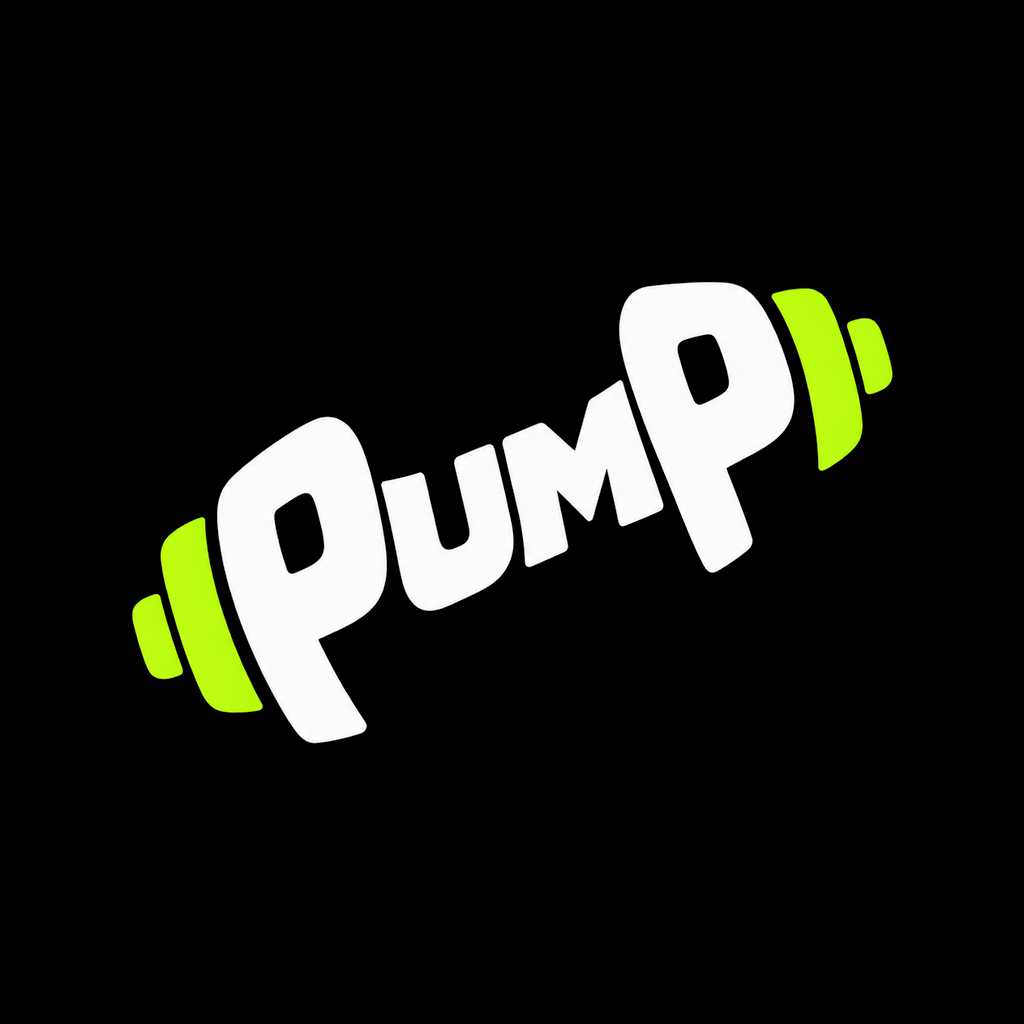
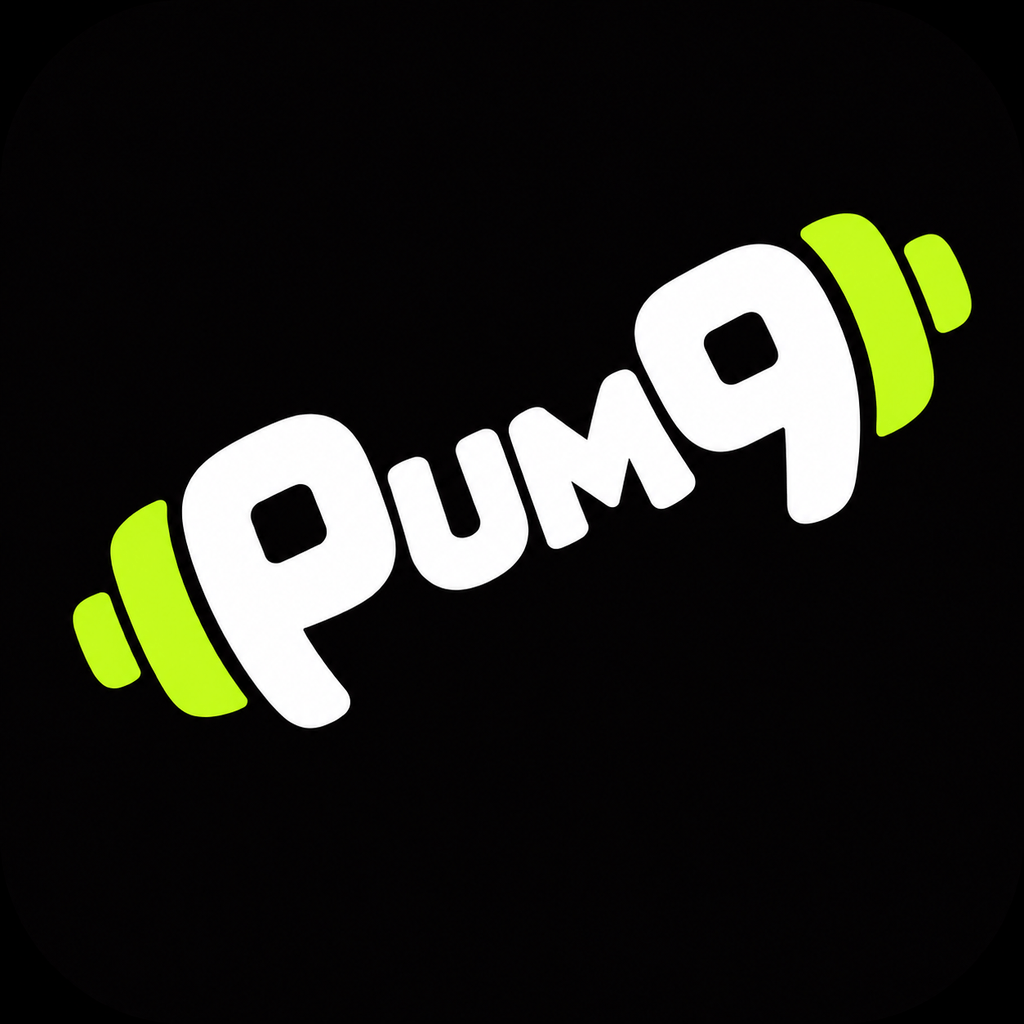
feat: atualiza o ícone do Pump e o tour do README

diff --git a/pwa-assets.config.ts b/pwa-assets.config.ts
@@ -1,13 +1,13 @@
 import { defineConfig, minimal2023Preset as base } from '@vite-pwa/assets-generator/config'
 
-// public/icon.png já vem com a folga em volta do logo: sem padding extra no apple/pwa; o maskable ganha um pouco pro recorte em círculo do Android
+// public/icon.png já vem com a folga em volta do logo: sem padding extra no apple/pwa; o maskable acomoda o logo diagonal na área segura do Android
 const bg = { background: '#000000' }
 
 export default defineConfig({
   preset: {
     ...base,
     transparent: { ...base.transparent, padding: 0 },
-    maskable: { ...base.maskable, padding: 0.1, resizeOptions: bg },
+    maskable: { ...base.maskable, padding: 0.2, resizeOptions: bg },
     apple: { ...base.apple, padding: 0, resizeOptions: bg },
   },
   images: ['public/icon.png'],

diff --git a/src/shell/releases.ts b/src/shell/releases.ts
@@ -11,6 +11,7 @@ export const CHANGELOG: [Release, ...Release[]] = [
       'Os grupos musculares ganharam as cores das anilhas: peito vermelho, costas azul, pernas amarelo, ombros verde e braços branco.',
       'Modo claro: em Configurações > Aparência, escolha Escuro, Claro ou seguir o aparelho.',
       'Botão "Atualizar app" em Configurações busca a versão nova e recarrega na hora.',
+      'Novo ícone do Pump na tela inicial do aparelho.',
     ],
     correcoes: [],
   },

diff --git a/README.md b/README.md
@@ -1,148 +1,83 @@
 <div align="center">
-  <img src="public/pwa-192x192.png" width="76" height="76" alt="Ícone do Pump">
+  <img src="public/pwa-192x192.png" width="82" height="82" alt="Ícone do Pump">
   <h1>Pump</h1>
-  <p><strong>Treino, dieta e evolução no mesmo app.</strong></p>
-  <p>Registre séries, organize refeições e acompanhe seus resultados no seu ritmo.</p>
-  <p><a href="https://yagoramires.github.io/pump/"><strong>Abrir o Pump</strong></a> · <a href="#como-usar">Como usar</a> · <a href="#rodar-localmente">Rodar localmente</a></p>
-  <img src="assets/readme/pump-demo.gif" width="680" alt="Demonstração do Pump. Uma série é registrada, o descanso começa, a dieta e a lista de compras são abertas e o gráfico de evolução aparece.">
+  <p>Da primeira série à próxima ficha. Registre o treino, organize as refeições e veja sua evolução ao longo das semanas.</p>
+  <p><a href="https://yagoramires.github.io/pump/"><strong>Abrir o Pump</strong></a> · <a href="#primeiros-passos">Primeiros passos</a> · <a href="#rodar-localmente">Rodar localmente</a></p>
+  <img src="assets/readme/pump-demo.gif" width="840" alt="Tour pelo Pump nos temas escuro e claro. A ficha de hoje, o descanso e o resumo do treino dão lugar ao histórico de cargas, à comparação de fotos, à refeição, à lista de compras e à escolha de aparência.">
 </div>
 
-> As capturas usam fichas, refeições, medições e imagens de progresso fictícias.
+O Pump é um app instalável que guarda os registros no próprio aparelho. As telas abaixo usam uma ficha de exemplo e imagens de progresso fictícias.
 
-## Como usar
+## Primeiros passos
 
-1. **Abra o app.** No iPhone, abra pelo Safari e use **Compartilhar → Adicionar à Tela de Início**.
-2. **Configure seu perfil.** Preencha seus dados e objetivos. No **Dia zero**, registre seu peso e, se quiser, medidas e fotos para ter uma referência inicial.
-3. **Monte a rotina.** Escolha um treino pronto, monte do zero ou importe uma ficha. Para a dieta, crie um cardápio ou importe um que você já usa. Dá para pular a configuração de treino ou dieta e voltar depois.
-4. **Registre o dia.** Use as abas **Treino** e **Dieta** para acompanhar o que fez. Abra **Evolução** para consultar o histórico e comparar os registros.
+No iPhone, abra o Pump no Safari e toque em **Compartilhar → Adicionar à Tela de Início**. Na primeira abertura, preencha o perfil e escolha seus objetivos. Em **Dia zero**, registre o peso e, se quiser, medidas e fotos para comparar depois.
+
+Escolha uma ficha pronta, monte a sua ou importe um plano. A montagem do treino e a da dieta podem ser puladas e retomadas em Configurações.
 
 <details>
-<summary>Ver as cinco etapas da montagem inicial</summary>
+<summary>Ver objetivos, Dia zero e escolha de treino</summary>
 
-| Sobre você | Objetivos | Dia zero |
+| Objetivos | Dia zero | Seu treino |
 | :---: | :---: | :---: |
-| <img src="assets/readme/montagem-perfil.png" width="216" alt="Formulário inicial com idade, altura e horários"> | <img src="assets/readme/montagem-objetivos.png" width="216" alt="Seleção de objetivos de treino e dieta"> | <img src="assets/readme/montagem-dia-zero.png" width="216" alt="Registro inicial de peso, medidas e fotos"> |
-
-| Seu treino | Sua dieta |
-| :---: | :---: |
-| <img src="assets/readme/montagem-treino.png" width="216" alt="Escolha de modelo de treino, montagem do zero e importação"> | <img src="assets/readme/montagem-dieta.png" width="216" alt="Opções para configurar o primeiro cardápio"> |
+| <img src="assets/readme/entrada-objetivos-claro.jpg" width="216" alt="Escolha do objetivo e da frequência de treino"> | <img src="assets/readme/entrada-dia-zero-escuro.jpg" width="216" alt="Campos de medidas e fotos iniciais"> | <img src="assets/readme/entrada-treino-claro.jpg" width="216" alt="Modelos de treino e opções para montar ou importar a ficha"> |
 
 </details>
 
 ## Treino
 
-Abra a ficha do dia, ajuste a carga e as repetições da série e marque quando terminar. Se a ficha traz uma sequência como **12-10-8** em três séries, o app preenche cada linha com o valor correspondente. Quando a série tem descanso programado, o cronômetro abre automaticamente. Você pode pausar, acrescentar 15 segundos ou pular o intervalo.
+Abra a ficha do dia para ver os exercícios e os músculos que vão trabalhar. Durante o treino, cada linha corresponde a uma série. Ajuste a carga e as repetições, marque a série e acompanhe o descanso. Ao concluir, registre como foi o esforço e veja o resumo da sessão.
 
-| Ficha e séries | Contador de descanso | Prévia do exercício |
+| Antes de começar | Entre as séries | Treino concluído |
 | :---: | :---: | :---: |
-| <img src="assets/readme/treino.png" width="220" alt="Ficha de treino com cargas e repetições por série"> | <img src="assets/readme/treino-descanso.png" width="220" alt="Cronômetro de descanso ativo após registrar uma série"> | <img src="assets/readme/treino-previa.png" width="220" alt="Foto e instruções de um exercício do catálogo"> |
+| <img src="assets/readme/treino-hoje-escuro.jpg" width="220" alt="Ficha de hoje com mapa muscular e lista de exercícios"> | <img src="assets/readme/treino-sessao-escuro.jpg" width="220" alt="Duas séries de supino marcadas e cronômetro de descanso ativo"> | <img src="assets/readme/treino-resumo-claro.jpg" width="220" alt="Resumo da sessão com duração, volume e músculos trabalhados"> |
 
-- **Montar e editar.** Abra **Configurações → Editar plano**. Adicione exercícios do catálogo ou crie os seus. Toque na miniatura para ver imagens e instruções. O nome e a seta abrem a edição de séries, repetições, carga e descanso.
-- **Escolher a sessão.** O Pump sugere a próxima ficha conforme a ordem do plano e o último treino concluído. Use **Trocar treino** para escolher outra ou **Marcar descanso** quando for dia de pausa.
-- **Consultar cargas anteriores.** A tabela da sessão mostra os valores da última vez que o exercício foi registrado. **Treinos anteriores** abre as sessões concluídas e seus detalhes.
-
-<details>
-<summary>Ver edição, catálogo, troca de ficha e treinos anteriores</summary>
-
-| Plano | Ajustes do exercício | Catálogo |
-| :---: | :---: | :---: |
-| <img src="assets/readme/treino-editor.png" width="216" alt="Editor de plano com miniaturas dos exercícios"> | <img src="assets/readme/treino-editar-exercicio.png" width="216" alt="Edição de um exercício com campos de séries, carga e descanso"> | <img src="assets/readme/treino-catalogo.png" width="216" alt="Busca no catálogo de exercícios com filtros de músculo e equipamento"> |
-
-| Trocar treino | Treinos anteriores |
-| :---: | :---: |
-| <img src="assets/readme/treino-trocar.png" width="216" alt="Gaveta para escolher outro treino do plano"> | <img src="assets/readme/treino-anteriores.png" width="216" alt="Lista de sessões anteriores com as séries de um treino expandidas"> |
-
-</details>
-
-## Dieta
-
-O cardápio organiza as refeições do dia por horário. Abra uma refeição para escolher uma opção, ajustar porções, trocar alimentos ou adicionar extras. Marque **Comi esta** para registrar e veja calorias e macros na aba principal. Use o contador de água para registrar copos ao longo do dia.
-
-| Resumo diário | Refeição e opções | Água |
-| :---: | :---: | :---: |
-| <img src="assets/readme/dieta.png" width="220" alt="Resumo da dieta com calorias, macros, água e lista de refeições"> | <img src="assets/readme/dieta-refeicao.png" width="220" alt="Detalhes de uma refeição com opções, porções e alimentos"> | <img src="assets/readme/dieta-agua.png" width="220" alt="Contador de água com total do dia e controles de copos"> |
-
-- **Planejar.** Em **Configurações → Cardápio**, edite metas, refeições e alternativas. A busca de alimentos usa a tabela TACO e permite cadastrar itens próprios.
-- **Adaptar o dia.** Em **Mais opções da dieta**, mude o cardápio do dia, marque **Dia livre** ou abra a lista de compras. Uma única refeição também pode ser marcada como livre.
-- **Comprar.** A lista estima quantidades para uma semana ou um mês com base nos cardápios. Marque o que já comprou e copie o que falta.
-- **Personalizar a água.** Em **Configurações → Água**, ajuste a meta diária, o tamanho do copo e a exibição do contador.
-
-<details>
-<summary>Ver cardápios, busca de alimentos e lista de compras</summary>
-
-| Editor de cardápio | Busca de alimentos | Compras |
-| :---: | :---: | :---: |
-| <img src="assets/readme/dieta-cardapio.png" width="216" alt="Editor do cardápio com metas de calorias e macronutrientes"> | <img src="assets/readme/dieta-alimentos.png" width="216" alt="Busca de alimentos na tabela TACO"> | <img src="assets/readme/dieta-compras.png" width="216" alt="Lista de compras com quantidades e itens marcados"> |
-
-| Escolher o cardápio de hoje | Configurar água |
-| :---: | :---: |
-| <img src="assets/readme/dieta-trocar-cardapio.png" width="216" alt="Seleção de cardápio do dia"> | <img src="assets/readme/dieta-configurar-agua.png" width="216" alt="Configurações de meta diária e volume do copo"> |
-
-</details>
+- **Ajustar a ficha.** Em **Configurações → Editar plano**, toque na miniatura para ver a execução ou no nome do exercício para editar séries, repetições, carga e descanso. Uma prescrição como **12-10-8** preenche as três séries em ordem.
+- **Mudar o dia.** Use **Trocar treino** para escolher outra ficha ou marque um dia de descanso. **Treinos anteriores** reúne as sessões concluídas.
+- **Controlar o intervalo.** Quando há descanso programado, marcar uma série inicia o cronômetro. Dá para pausar, acrescentar 15 segundos ou pular o intervalo.
 
 ## Evolução
 
-Veja peso, medidas, estimativa de gordura corporal e frequência de treinos. O gráfico de peso pode mostrar 7, 30 ou 90 dias, ou todo o histórico. A aba também reúne a consistência da dieta, a hidratação e as conquistas.
+Abra um exercício para ver como a carga variou de uma sessão para outra. Para acompanhar mudanças no corpo, registre medidas e fotos ao longo das semanas e escolha duas datas para comparar lado a lado.
 
-| Painel e gráfico | Comparar fotos | Histórico |
+| Carga por exercício | Comparação por data | Conquistas |
 | :---: | :---: | :---: |
-| <img src="assets/readme/evolucao.png" width="220" alt="Painel de evolução com gráfico de peso, gordura estimada e treinos"> | <img src="assets/readme/evolucao-comparar.png" width="220" alt="Comparação de duas imagens fictícias e das medidas entre datas"> | <img src="assets/readme/evolucao-historico.png" width="220" alt="Calendário de registros com detalhes do dia selecionado"> |
+| <img src="assets/readme/evolucao-exercicio-claro.jpg" width="220" alt="Gráfico de carga do supino com os registros por sessão"> | <img src="assets/readme/evolucao-comparar-escuro.jpg" width="220" alt="Duas fotos fictícias e a diferença de peso e cintura entre as datas"> | <img src="assets/readme/evolucao-conquistas-escuro.jpg" width="220" alt="Grade de conquistas com os marcos já alcançados"> |
 
-- **Registrar.** Toque em **Registrar** para anotar peso e medidas ou adicionar imagens da câmera ou da galeria. As imagens podem ser separadas por frente, lado e costas.
-- **Fazer o check-in.** No dia configurado, use **Atualizar** para registrar a semana e ver as mudanças desde os registros anteriores.
-- **Comparar e consultar.** Escolha duas datas em **Comparar**, veja os dias com registros em **Histórico** e abra **Conquistas** para consultar os marcos.
-- **Compartilhar.** Use **Gerar PDF** e depois **Compartilhar PDF** para exportar um resumo do período. A primeira geração pode precisar de internet para carregar o gerador.
+- **Registrar a semana.** Em **Registrar**, anote peso e medidas ou adicione fotos de frente, lado e costas. No dia do check-in, **Atualizar** reúne os registros da semana.
+- **Consultar o histórico.** O calendário mostra os registros de cada dia. O painel reúne constância, evolução das cargas e recordes.
+- **Compartilhar.** Gere o PDF de evolução para enviar um resumo do período. O primeiro carregamento do gerador pode precisar de internet.
 
-<details>
-<summary>Ver registro, captura de fotos, check-in, conquistas e relatório</summary>
+## Dieta
 
-| Registrar medidas | Capturar fotos | Check-in semanal |
+O cardápio organiza as refeições por horário. Abra uma delas para escolher a opção, ajustar porções ou incluir um extra. **Comi esta** registra a refeição e atualiza o total do dia. A mesma aba reúne água e suplementos.
+
+| Cardápio de hoje | Refeição | Lista de compras |
 | :---: | :---: | :---: |
-| <img src="assets/readme/evolucao-registro.png" width="216" alt="Formulário para registrar peso e medidas"> | <img src="assets/readme/evolucao-fotos.png" width="216" alt="Tela de captura de fotos com seleção de ângulo"> | <img src="assets/readme/evolucao-checkin.png" width="216" alt="Formulário de atualização semanal"> |
+| <img src="assets/readme/dieta-hoje-claro.jpg" width="220" alt="Resumo diário com refeições, água e suplementos"> | <img src="assets/readme/dieta-refeicao-escuro.jpg" width="220" alt="Alimentos do almoço, porções e ação Comi esta"> | <img src="assets/readme/dieta-compras-claro.jpg" width="220" alt="Quantidades para as compras com seleção de semana ou mês"> |
 
-| Resumo da semana | Conquistas | PDF |
+- **Planejar.** Em **Configurações → Cardápio**, edite metas, refeições e alternativas. A busca usa a tabela TACO e aceita alimentos cadastrados por você.
+- **Adaptar.** Em **Mais opções da dieta**, troque o cardápio do dia, marque um dia livre ou abra a lista de compras. Dá para marcar itens comprados e copiar os que faltam.
+- **Personalizar.** Em Configurações, ajuste a meta de água, o volume do copo e os suplementos que quer acompanhar.
+
+## Configurações, aparência e backup
+
+Em **Configurações → App**, escolha **Escuro**, **Claro** ou **Sistema** para seguir a aparência do aparelho. **Novidades** mostra o que mudou na versão. **Atualizar app** busca a versão disponível e recarrega o Pump.
+
+| Editar plano | Perfil | Aparência e atualização |
 | :---: | :---: | :---: |
-| <img src="assets/readme/evolucao-semana.png" width="216" alt="Resumo do check-in depois de salvar as medidas"> | <img src="assets/readme/evolucao-conquistas.png" width="216" alt="Lista de conquistas ganhas e bloqueadas"> | <img src="assets/readme/evolucao-relatorio.png" width="216" alt="Ação para compartilhar o PDF de evolução gerado"> |
+| <img src="assets/readme/ajustes-plano-escuro.jpg" width="220" alt="Editor das fichas com miniaturas dos exercícios"> | <img src="assets/readme/ajustes-perfil-claro.jpg" width="220" alt="Dados do perfil, horários e objetivos"> | <img src="assets/readme/ajustes-aparencia-claro.jpg" width="220" alt="Seletor de aparência e ações Novidades e Atualizar app"> |
 
-</details>
+Os registros ficam em IndexedDB, no navegador ou no app instalado. Antes de trocar de aparelho ou limpar os dados do site, use **Enviar backup** e guarde o JSON. No destino, **Restaurar backup** recupera o histórico e as fotos e substitui os dados que já estavam ali. Para rever o passo a passo inicial no mesmo aparelho, use **Refazer montagem**.
 
 ## Importar treino ou dieta
 
-No grupo **Treino** ou **Dieta** das configurações, escolha **Gerar com IA** para montar um plano a partir dos seus objetivos. Se você já tem uma ficha em texto, imagem ou PDF, use **Converter** e envie a ficha junto com o prompt na sua ferramenta de IA. Para mudar o plano que você já tem, use **Ajustar com IA**: ele copia seu plano com as regras do formato, você cola na IA, diz o que quer mudar e cola a resposta em **Gerar com IA**.
-
-1. Copie o prompt que o Pump prepara. Quando a ferramenta não conseguir abrir a lista do catálogo, use **Copiar a lista** e cole também.
-2. Cole a resposta no Pump ou selecione o arquivo JSON. O app aceita o texto da resposta junto com o bloco de código.
-3. Revise o resultado antes de salvar. Se o catálogo de exercícios estiver indisponível, dá para seguir sem prévias ou tentar carregá-lo outra vez mantendo a resposta colada.
-
-<details>
-<summary>Ver as telas de geração e conversão</summary>
-
-| Gerar treino | Converter ficha |
-| :---: | :---: |
-| <img src="assets/readme/treino-importar.png" width="216" alt="Importação de treino com JSON validado e botão Revisar plano"> | <img src="assets/readme/treino-converter.png" width="216" alt="Instruções para converter uma ficha de treino existente"> |
-
-| Gerar dieta | Converter cardápio |
-| :---: | :---: |
-| <img src="assets/readme/dieta-importar.png" width="216" alt="Geração de dieta com preferências alimentares"> | <img src="assets/readme/dieta-converter.png" width="216" alt="Importação de um cardápio existente"> |
-
-</details>
-
-## Configurações, dados e backup
-
-Os dados ficam no navegador ou no app instalado, em IndexedDB. O Pump dispensa conta e servidor para armazenar seu histórico. O catálogo, as imagens de exercício e a primeira geração do PDF podem precisar de conexão.
-
-- **Perfil.** Em **Configurações → Perfil**, atualize dados, horários, objetivos e o dia do check-in.
-- **Guardar uma cópia.** Use **Enviar backup** e salve o JSON em Arquivos ou em outro local seguro. O backup inclui o histórico e as fotos registradas.
-- **Mudar de navegador ou aparelho.** Exporte o backup na origem e use **Restaurar backup** no destino, na montagem inicial ou em Configurações. A restauração substitui os dados do destino.
-- **Refazer a montagem.** A opção reabre as etapas iniciais com os registros ainda salvos.
-
-| Configurações | Perfil | Restaurar backup |
-| :---: | :---: | :---: |
-| <img src="assets/readme/configuracoes.png" width="216" alt="Menu com grupos de treino, dieta e dados"> | <img src="assets/readme/perfil.png" width="216" alt="Edição do perfil e dos objetivos"> | <img src="assets/readme/backup-restaurar.png" width="216" alt="Confirmação antes de restaurar um backup"> |
+1. Abra o grupo **Treino** ou **Dieta** em Configurações. Use **Gerar com IA** para começar pelos seus objetivos, **Converter** para aproveitar uma ficha existente ou **Ajustar com IA** para mudar um plano salvo.
+2. Copie o prompt para a sua ferramenta de IA. Na conversão, envie também a ficha em texto, imagem ou PDF. Se a ferramenta não conseguir abrir o catálogo, use **Copiar a lista**.
+3. Cole a resposta no Pump ou selecione o JSON. Revise antes de salvar. Se o catálogo de exercícios estiver indisponível, você pode seguir sem as prévias ou tentar carregá-lo outra vez.
 
 ## Rodar localmente
 
-Com [Bun](https://bun.sh/) instalado:
+Instale o [Bun](https://bun.sh/) e execute os comandos abaixo.
 
 ```sh
 git clone https://github.com/yagoramires/pump.git
@@ -151,7 +86,7 @@ bun install --frozen-lockfile
 bun run dev
 ```
 
-Abra [http://localhost:5173/pump/](http://localhost:5173/pump/).
+Abra [localhost:5173/pump/](http://localhost:5173/pump/).
 
 | Comando | O que faz |
 | --- | --- |
@@ -160,10 +95,6 @@ Abra [http://localhost:5173/pump/](http://localhost:5173/pump/).
 | `bun run build` | Valida os tipos e gera o site estático em `dist/`. |
 | `bun run preview` | Serve o build localmente para conferência. |
 
-O Pump usa React, TypeScript, Vite, Tailwind CSS, IndexedDB e service worker. As imagens de exercícios vêm do [Free Exercise DB](https://github.com/yuhonas/free-exercise-db) e o catálogo nutricional usa a Tabela Brasileira de Composição de Alimentos (TACO).
+O Pump usa React, TypeScript, Vite, Tailwind CSS, IndexedDB e service worker. As imagens de exercícios vêm do [Free Exercise DB](https://github.com/yuhonas/free-exercise-db). O catálogo nutricional usa a Tabela Brasileira de Composição de Alimentos (TACO).
 
-### Limites conhecidos
-
-- O alerta sonoro de descanso funciona com o app em primeiro plano. O modo silencioso pode impedir o som no iPhone.
-- A estimativa de gordura corporal depende das medidas preenchidas e serve para acompanhar tendências.
-- O armazenamento é local. Limpar os dados do site ou reinstalar pode apagar os registros daquele navegador. Exporte um backup antes de migrar.
+O catálogo e as imagens de exercícios podem precisar de conexão. O alerta sonoro do descanso funciona em primeiro plano e pode ser silenciado pelo iPhone. A estimativa de gordura corporal depende das medidas preenchidas e serve para acompanhar tendências.
